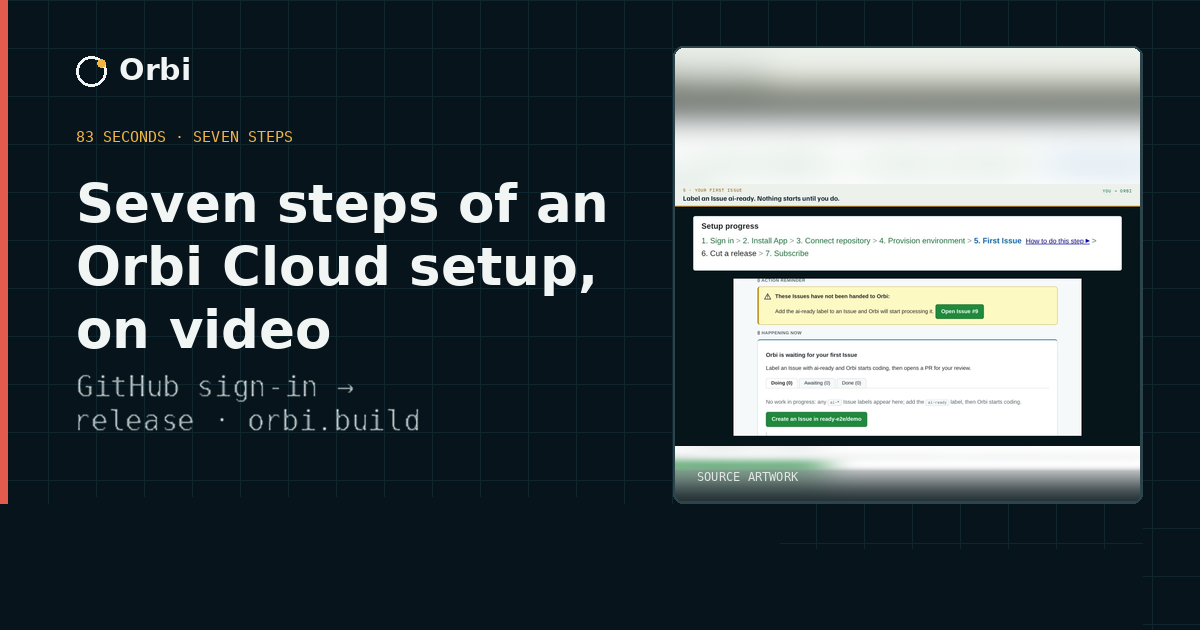
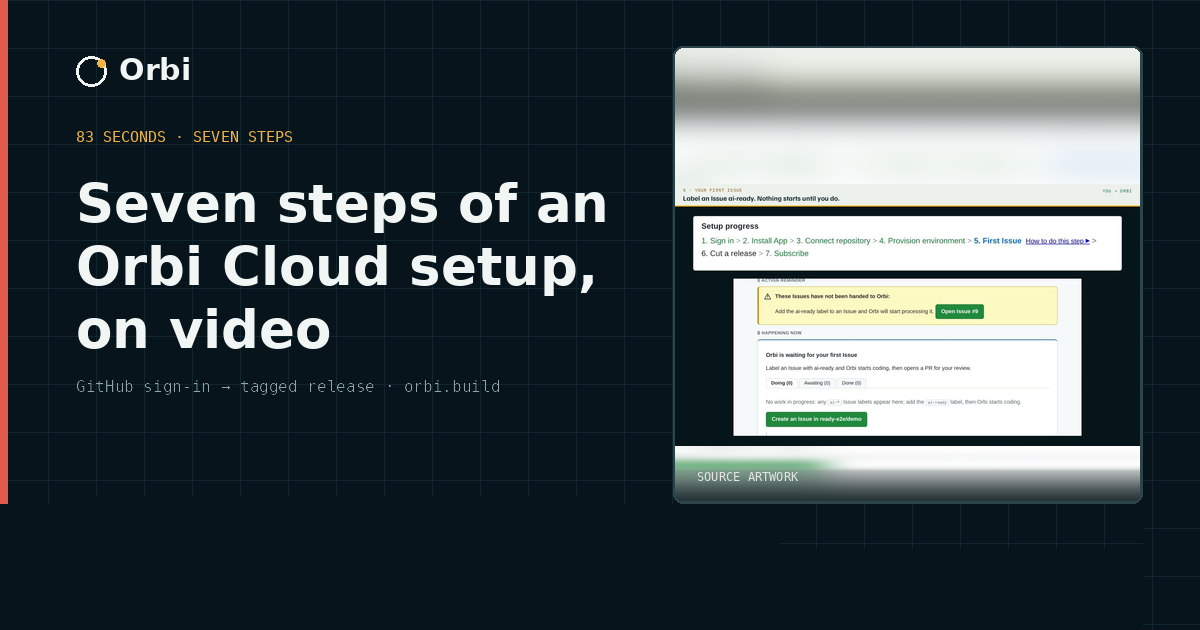
fix(og): 恢复两张分享卡的说明行，并加单行/字节断言 (Fixes #808)
#804 把分享卡底部说明行挪到主标题下方后，beta 上 og.png 的说明行折成三行、
第三行被截断，og-watch-the-six-steps.png 折成两行并丢了 tagged。

- public/img/og.png、public/img/og-watch-the-six-steps.png 按字节取自维护者
  素材提交 d7b17b6（sha256 与票面一致，未改像素、未重新编码）
- tests/og-bottom-band.test.js 新增说明行分段断言：说明行的墨迹行必须恰好
  连成 1 段、高度 13-17 行（换图前 og.png 为 3 段、og-watch 为 2 段，为红）；
  并新增两张图的 sha256 固定，防止像素再次漂移

Fixes #808

Changed region(s): [[0.0617, 0.6032, 0.37, 0.6937], [0.0617, 0.6635, 0.1542, 0.6937], [0.3392, 0.6032, 0.4008, 0.6333]]

diff --git a/tests/og-bottom-band.test.js b/tests/og-bottom-band.test.js
@@ -15,6 +15,7 @@
 // region was 780 of 1200), so ink that survives just past 780 still shows
 // on the card - as a chopped-off fragment of the line that moved away.
 
+import { createHash } from "node:crypto";
 import { readdir, readFile } from "node:fs/promises";
 import { join } from "node:path";
 import { fileURLToPath } from "node:url";
@@ -28,6 +29,8 @@ const CAPTION_TOP = 410; // a moved caption reaches into this band on every card
 const CAPTION_BOTTOM = 504;
 const LABEL_TOLERANCE = 60; // per-pixel |dR| + |dG| + |dB| against the background
 const INK = 90; // a pixel this far from the background is card content
+const LINE_MIN = 13; // a single caption line is 13-17 ink rows tall...
+const LINE_MAX = 17; // ...wrapping it into two or more lines falls outside that
 
 async function htmlFiles(dir) {
   const out = [];
@@ -125,6 +128,38 @@ function decodePng(bytes) {
   };
 }
 
+/** The card's background is whatever fills the bottom-right of the strip. */
+function stripBackground(image) {
+  const counts = new Map();
+  for (let y = BAND_TOP; y < image.height; y++) {
+    for (let x = BAND_RIGHT; x < image.width; x++) {
+      const key = image.at(x, y).join(",");
+      counts.set(key, (counts.get(key) || 0) + 1);
+    }
+  }
+  return [...counts.entries()].sort((a, b) => b[1] - a[1])[0][0].split(",").map(Number);
+}
+
+/**
+ * The y ranges inside `region` that carry ink, each run collapsed to one
+ * entry: one caption line is one run, a wrapped or clipped caption is several.
+ */
+function inkRuns(image, background, { left, right, top, bottom }) {
+  const runs = [];
+  for (let y = top; y < bottom; y++) {
+    let ink = false;
+    for (let x = left; x < right && !ink; x++) {
+      const [r, g, b] = image.at(x, y);
+      if (Math.abs(r - background[0]) + Math.abs(g - background[1]) + Math.abs(b - background[2]) > INK) ink = true;
+    }
+    if (!ink) continue;
+    const last = runs[runs.length - 1];
+    if (last && last.end === y - 1) last.end = y;
+    else runs.push({ start: y, end: y });
+  }
+  return runs.map((run) => ({ ...run, height: run.end - run.start + 1 }));
+}
+
 async function cardImages() {
   const urls = new Set();
   for (const file of await htmlFiles(PUBLIC)) {
@@ -144,15 +179,7 @@ describe("share card bottom strip", () => {
       const image = decodePng(await readFile(join(PUBLIC, path)));
       expect([image.width, image.height], path).toEqual([1200, 630]);
 
-      // The card's background is whatever fills the bottom-right of the strip.
-      const counts = new Map();
-      for (let y = BAND_TOP; y < image.height; y++) {
-        for (let x = BAND_RIGHT; x < image.width; x++) {
-          const key = image.at(x, y).join(",");
-          counts.set(key, (counts.get(key) || 0) + 1);
-        }
-      }
-      const background = [...counts.entries()].sort((a, b) => b[1] - a[1])[0][0].split(",").map(Number);
+      const background = stripBackground(image);
 
       let worst = 0;
       let worstAt = null;
@@ -177,6 +204,42 @@ describe("share card bottom strip", () => {
         }
       }
       expect(ink, path + ": the caption must sit above the label strip, not be deleted").toBeGreaterThan(500);
+    }
+  });
+});
+
+// The caption above the strip is one line of text on every card. Issue #803's
+// reflow broke that on two cards and the assertions above stayed green: they
+// only ask whether *some* ink sits above the strip, so a caption wrapped into
+// two rows - or into three with the last one clipped by the band - passed.
+// These two cards pin the line back to a single run of ink rows.
+const CAPTION_LINES = {
+  "/img/og.png": { left: 60, right: 900, top: 386, bottom: BAND_TOP },
+  "/img/og-watch-the-six-steps.png": { left: 30, right: 620, top: 360, bottom: BAND_TOP },
+};
+
+describe("share card caption line", () => {
+  it("keeps each pinned card's caption on exactly one line", async () => {
+    for (const [path, region] of Object.entries(CAPTION_LINES)) {
+      const image = decodePng(await readFile(join(PUBLIC, path)));
+      const runs = inkRuns(image, stripBackground(image), region);
+      expect(
+        runs.map((run) => run.start + "-" + run.end + " (" + run.height + " rows)"),
+        path + ": the caption is one line, so its ink must be one unbroken run of rows",
+      ).toHaveLength(1);
+      expect(runs[0].height, path + ": one caption line is " + LINE_MIN + "-" + LINE_MAX + " rows tall").toBeGreaterThanOrEqual(LINE_MIN);
+      expect(runs[0].height, path + ": one caption line is " + LINE_MIN + "-" + LINE_MAX + " rows tall").toBeLessThanOrEqual(LINE_MAX);
+    }
+  });
+
+  it("pins the corrected card bytes so the pixels cannot drift again", async () => {
+    const pins = {
[2 lines of base64/hex data omitted]
+    };
+    for (const [path, sha256] of Object.entries(pins)) {
+      const actual = createHash("sha256").update(await readFile(join(PUBLIC, path))).digest("hex");
+      expect(actual, path + ": share card bytes are pinned (Issue #808)").toBe(sha256);
     }
   });
 });
